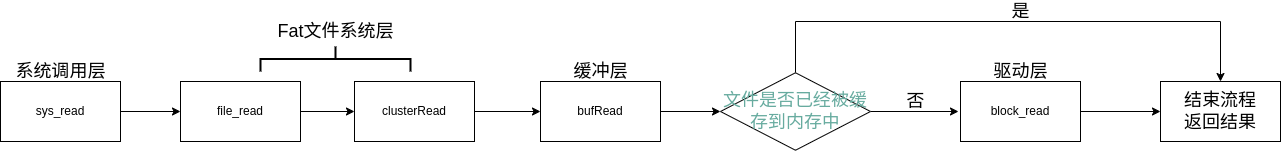
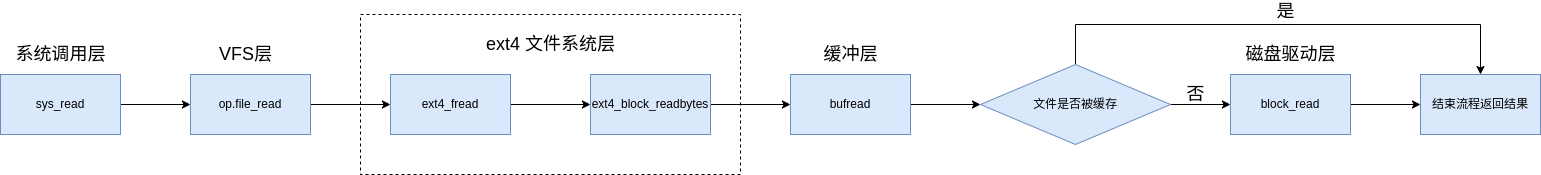
修改文档与文件系统

diff --git a/fs/fd.c b/fs/fd.c
@@ -47,7 +47,7 @@ int32_t pcb_fd_install(int32_t globa_fd_idx)
 	uint8_t local_fd_idx = 3; // 跨过stdin,stdout,stderr
 	while (local_fd_idx < MAX_FILES_OPEN_PER_PROC)
 	{
-		if (cur->fd_table[local_fd_idx] == -1)
+		if (cur->fd_table[local_fd_idx] == 0)
 		{ // -1表示free_slot,可用
 			cur->fd_table[local_fd_idx] = globa_fd_idx;
 			file_table[globa_fd_idx].refcnt++;
@@ -58,7 +58,7 @@ int32_t pcb_fd_install(int32_t globa_fd_idx)
 	}
 	if (local_fd_idx == MAX_FILES_OPEN_PER_PROC)
 	{
-		//printk("exceed max open files_per_proc\n");
+		printk("exceed max open files_per_proc\n");
 		return 0;
 	}
 	return local_fd_idx;

diff --git a/fs/syscallfs_test.c b/fs/syscallfs_test.c
@@ -205,13 +205,16 @@ void test_fs_all(void)
 	//test_open();
 	//test_close();
 	//test_unlink();
-	printk("test_fs_all\n");
+	/*printk("test_fs_all\n");
 	struct path_search_record path_search_record;
 	Dirent * d = search_file("/sdcard/busybox",&path_search_record);
-	printk("%s:\n",d->name);
+	printk("%s:\n",d->name);*/
+	int fd = sys_open("/sdcard/busybox",O_RDONLY,0777);
+	printk("fd:%d\n",fd);
 	char buf[8192];
+	sys_read(fd,buf,8192);
 	//printk("%d\n",d->file_size);
-	ext4_fread(d,buf,0,8192);
+	//ext4_fread(d,buf,0,8192);
 	int i =0 ;
 	while (i <8192)
 	{

diff --git a/fs/syscall_fs.c b/fs/syscall_fs.c
@@ -55,7 +55,6 @@ int sys_open(const char *pathname, int flags, mode_t mode)
 	{ // 若要创建的文件已存在
 		//printk("%s has already exist!\n", pathname);
 		fd = file_open(file, flags ,mode);
-		printk("fd:%d\n");
 		return fd;
 	}
 	

diff --git a/doc/文件系统.md b/doc/文件系统.md
@@ -5,6 +5,7 @@
 ![Alt text](./img/kernel%E6%96%87%E4%BB%B6%E7%B3%BB%E7%BB%9F%E5%B1%82%E6%AC%A1%E7%BB%93%E6%9E%84.png)
 
 文件系统调用流程(以read为例)：
+
 ![Alt text](./img/文件系统调用流程.png)
 
 ## 磁盘驱动层
@@ -214,6 +215,49 @@ Dirent* search_dir_tree(Dirent* parent,char *name);
 ```
 
 其中 `search_file` 函数用于目录层级间的查询，而 `search_dir_tree` 则是对 `child_list` 中的内容进行查询
+
+```c
+/*search_file 函数中的核心逻辑*/
+while (name[0])
+{ // 若第一个字符就是结束符,结束循环
+    /* 记录查找过的路径,但不能超过searched_path的长度512字节 */
+    //ASSERT(strlen(searched_record->searched_path) < 512);
+    /* 记录已存在的父目录 */
+    strcat(searched_record->searched_path, "/");
+    strcat(searched_record->searched_path, name);
+    dir_e = search_dir_tree(parent_dir, name);
+    /* 在所给的目录中查找文件 */
+    if (dir_e != NULL)
+    {
+        memset(name, 0, MAX_NAME_LEN);
+        /* 若sub_path不等于NULL,也就是未结束时继续拆分路径 */
+        if (sub_path)
+        {
+            sub_path = path_parse(sub_path, name);
+        }
+        if (dir_e->type == DIRENT_DIR) // 如果被打开的是目录
+        {
+            /* 判断目录下是否有挂载的文件系统，父目录与子目录对应的head若不同则说明子目录下挂载了其他文件系统*/
+            if (dir_e->head != NULL && dir_e->head != dir_e->parent_dirent->head && dir_e->head->mnt_rootdir != NULL) 
+            {
+                dir_e = dir_e->head->mnt_rootdir; // 完成挂载点到被挂载文件系统的转换
+            }
+            searched_record->parent_dir = parent_dir;
+            parent_dir = dir_e;
+            continue;
+        }
+        else if (dir_e->type == DIRENT_FILE)
+        { // 若是普通文件
+            searched_record->file_type = DIRENT_FILE;
+            return dir_e;
+        }
+    }
+    else
+    {
+        return NULL;
+    }
+}
+```
 
 #### 文件系统的挂载
 

diff --git a/README.md b/README.md
@@ -1,6 +1,10 @@
 # kernel-travel
 
-kernel-travel 是由 重启之我是loader 三名成员共同开发的基于 LoongArch 的架构的64位操作系统。系统采用 kbuild 编译框架，从 0 开发内核，部分头文件移植自 Linux 。
+## 项目简介
+
+kernel-travel 是由 重启之我是loader 三名成员共同开发的基于 LoongArch 的架构的64位操作系统。系统采用 kbuild 编译框架，从 0 开发内核，部分头文件移植自 Linux 。该系统目前支持 LoongArch 架构的硬件开发板（2k1000、3A5000）。
+
+kernel-travel 包含有四大模块，分别为：内存管理、进程管理、文件系统、设备驱动。
 
 ## 编译并运行该项目
 
@@ -130,6 +134,8 @@ bash quick_start.sh distclean
 * [pci总线驱动](./doc/pci总线驱动.md)
 * [磁盘驱动](./doc/磁盘驱动.md)
 * [文件系统](./doc/文件系统.md)
+* [Fat32文件系统.md](./doc/Fat32文件系统.md)
+* [适配lwext4.md](./doc/适配lwext4.md)
 * [虚拟内存管理](./doc/虚拟内存管理.md)
 * [物理内存管理](./doc/物理内存管理.md)
 

diff --git a/doc/虚拟内存管理.md b/doc/虚拟内存管理.md
@@ -4,7 +4,11 @@
 
 ## 页表映射
 
-kernel-travel 采用的是三级页表进行页表映射，页表的核心处理逻辑函数:
+kernel-travel 采用的是三级页表进行页表映射。
+
+![Alt text](./img/虚拟地址位.png)
+
+以下为页表的核心处理逻辑函数:
 
 ```c
 u64 *pgd_ptr(u64 pd,u64 vaddr)
@@ -70,10 +74,11 @@ u64 vaddr_to_paddr(u64 pd, u64 vaddr) {
 
 ## 进程的虚拟内存管理
 
+kernel-travel 中虚拟内存管理的框架
+
+![VMA](./img/虚拟内存.png)
+
 每个进程的 task_struct 中的 mm_struct 负责当前进程的虚拟内存管理。
-
-[VMA](img/VMA.img)
-
 ```c
 struct mm_struct {
 	// 串联组织进程空间中所有的 VMA  的双向链表 

diff --git a/doc/物理内存管理.md b/doc/物理内存管理.md
@@ -19,6 +19,8 @@ struct loongarchlist_mem_map {
 
 和大多数操作系统类似，kernel-travel将内存分割为一个个页，页作为内存管理的最小单位。由于 loongarch 2k1000 开发板的物理内存是不连续的两块，因此分别进行管理，使用的是 DISCONTIGMEM 非连续内存模型。为了OS的后期扩展与优化（DMA等），采用了NUMA体系架构，鉴于当前CPU核数限制，管理使用的是一个伪NUMA节点，一个单独的节点管理所有的内存。
 
+![Alt text](./img/物理内存numa.png)
+
 ```c
 typedef struct pglist_data {
 	struct zone node_zones[MAX_NR_ZONES];
